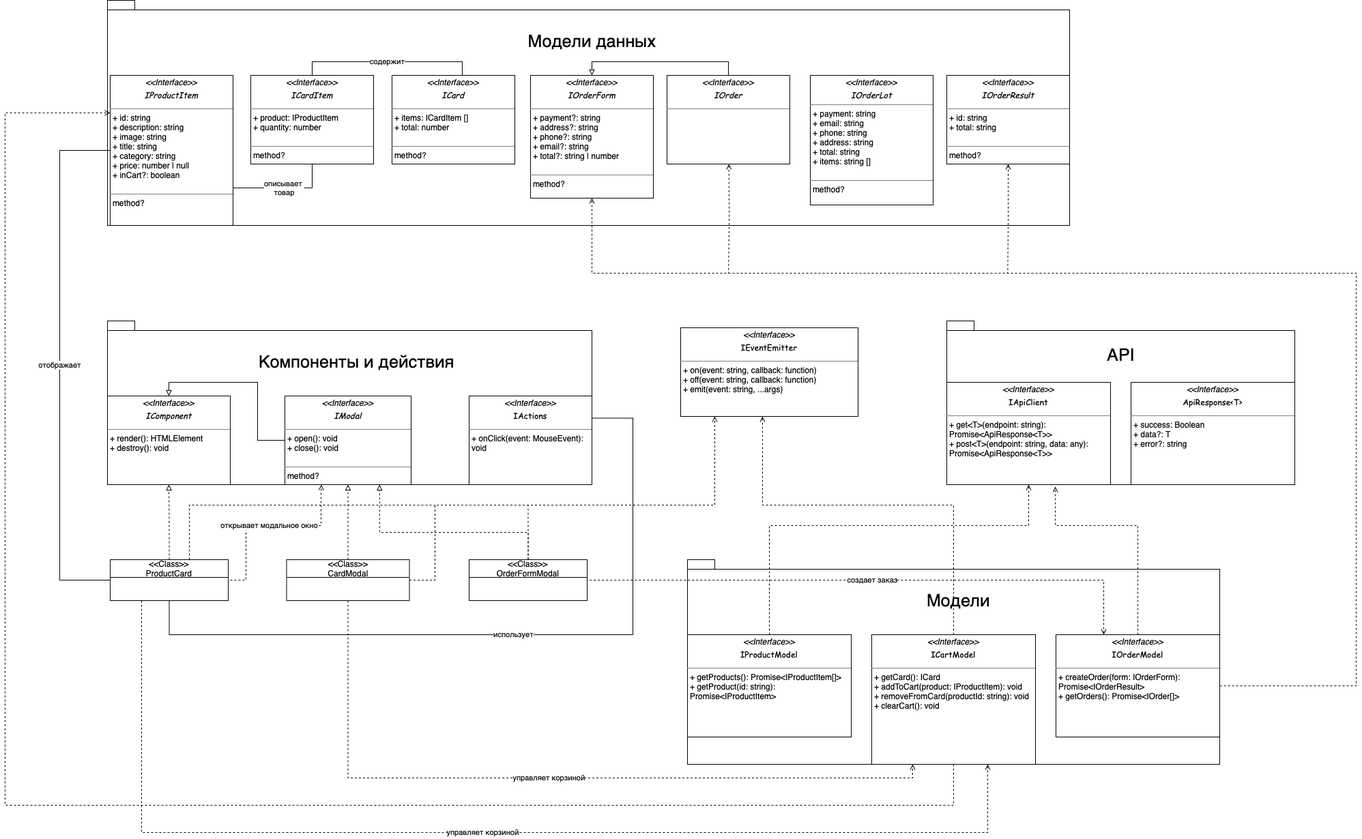
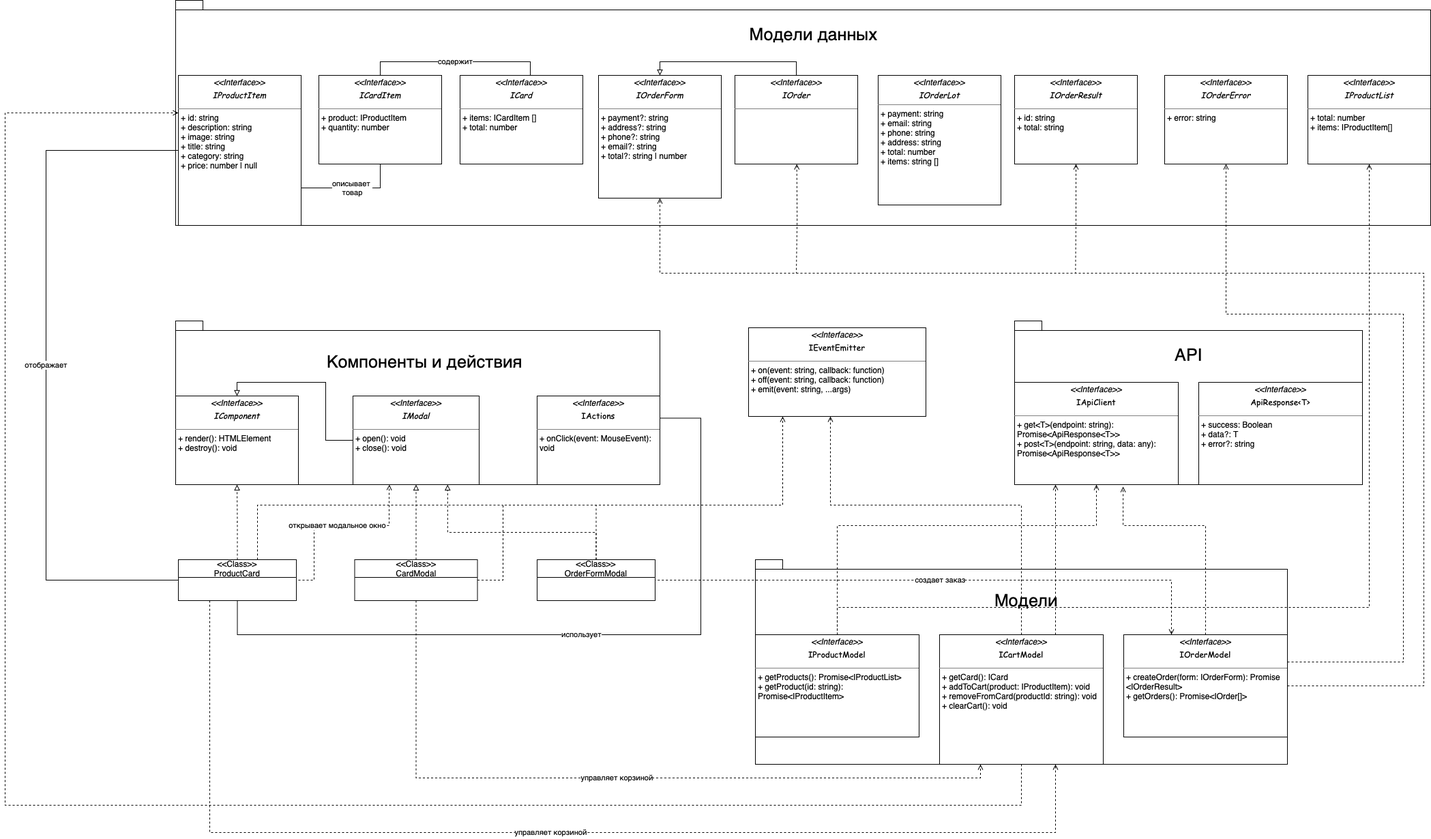
updated readme

diff --git a/src/types/index.ts b/src/types/index.ts
@@ -7,6 +7,11 @@ export interface IProductItem {
   price: number | null;
 }
 
+export interface IProductList {
+  total: number;
+  items: IProductItem[];
+}
+
 export interface IActions {
   onClick: (event: MouseEvent) => void;
 }
@@ -37,6 +42,10 @@ export interface IOrderResult {
   total: number;
 }
 
+export interface IOrderError {
+  error: string;
+}
+
 export interface ICartItem {
   product: IProductItem;
   quantity: number;
@@ -63,4 +72,34 @@ export interface IEventEmitter {
   on(event: string, callback: EventCallback): void;
   off(event: string, callback: EventCallback): void;
   emit(event: string, ...args: any[]): void;
+}
+
+export interface ApiResponse<T> {
+  success: boolean;
+  data?: T;
+  error?: string;
+}
+
+export interface IApiClient {
+  get<T>(endpoint: string): Promise<ApiResponse<T>>;
+  post<T>(endpoint: string, data: any): Promise<ApiResponse<T>>;
+  put<T>(endpoint: string, data: any): Promise<ApiResponse<T>>;
+  delete<T>(endpoint: string): Promise<ApiResponse<T>>;
+}
+
+export interface IProductModel {
+  getProducts(): Promise<IProductList>;
+  getProduct(id: string): Promise<IProductItem>;
+}
+
+export interface ICartModel {
+  getCart(): ICart;
+  addToCart(product: IProductItem): void;
+  removeFromCart(productId: string): void;
+  clearCart(): void;
+}
+
+export interface IOrderModel {
+  createOrder(form: IOrderLot): Promise<IOrderResult>;
+  getOrders(): Promise<IOrder[]>;
 }

diff --git a/README.md b/README.md
@@ -18,30 +18,202 @@
 - src/utils/constants.ts — файл с константами
 - src/utils/utils.ts — файл с утилитами
 
+## Об архитектуре
+
+Взаимодействия внутри приложения происходят через события. Модели инициализируют события, слушатели событий в основном коде выполняют передачу данных компонентам отображения, а также вычислениями между этой передачей, и еще они меняют значения в моделях.
+
 ## Архитектура проекта
 
-### Основные компоненты
-1. **Модели данных**
-   - `IProductItem` - модель товара с полями id, title, description, image, category, price
-   - `ICart` и `ICartItem` - модель корзины для хранения выбранных товаров
-   - `IOrder`, `IOrderForm`, `IOrderLot` - модели для работы с заказами
+Архитектура проекта основана на MVP-паттерне с использованием брокера событий для взаимодействия между частями приложения. Основные части архитектуры включают Модели данных, Представления (Компоненты) и Связующий слой (логика приложения, управляемая событиями).
 
-2. **Компоненты**
-   - `IComponent` - базовый компонент с методами render и destroy
-   - `IModal` - модальное окно с методами open и close
-   - `IActions` - обработка событий клика
+### Основные компоненты и их назначение
 
-3. **События**
-   - `IEventEmitter` - брокер событий для коммуникации между компонентами
-   - `EventCallback` - тип для обработчиков событий
+1.  **Модели данных**: Отвечают за хранение и управление состоянием данных приложения, а также бизнес-логику.
+2.  **Представления (Компоненты)**: Отвечают за отображение данных пользователю и обработку его действий.
+3.  **Брокер событий**: Обеспечивает слабую связанность между компонентами, позволяя им взаимодействовать путем подписки на события и их публикации.
+4.  **API Клиент**: Отвечает за взаимодействие с внешним API для получения и отправки данных.
 
-## UML Диаграмма проекта
+### Взаимодействие компонентов
 
-![UML Диаграмма проекта](web-larek-uml-diagram.png)
+Взаимодействие происходит преимущественно через брокер событий (`IEventEmitter`). Модели данных (`IProductModel`, `ICartModel`, `IOrderModel`) могут инициировать события при изменении своего состояния (например, 'cart:updated'). Компоненты (`ProductCard`, `CartModal`, `OrderFormModal`) могут подписываться на эти события, чтобы обновить свое отображение. Компоненты также могут вызывать методы моделей напрямую для выполнения действий (например, добавить товар в корзину). API Клиент (`IApiClient`) используется моделями для запросов к серверу.
 
-## Описание проекта
+Процессы в приложении (например, добавление товара в корзину, оформление заказа) реализуются путем вызова соответствующих методов моделей, которые в свою очередь используют API Клиент и инициируют события для обновления представлений.
 
-![Описание проекта](excalidraw.png)
+### Данные, используемые в приложении и их описание
+
+Проект работает со следующими основными типами данных, определенными в `src/types/index.ts`:
+
+*   `IProductItem`: Интерфейс, описывающий структуру данных одного товара, получаемых или используемых в приложении.
+    *   `id: string`: Уникальный идентификатор товара.
+    *   `description: string`: Подробное описание товара.
+    *   `image: string`: URL изображения товара.
+    *   `title: string`: Название товара.
+    *   `category: string`: Категория товара.
+    *   `price: number | null`: Цена товара. Может быть `null`, если товар недоступен для покупки.
+
+*   `IProductList`: Интерфейс, описывающий ответ API при запросе списка товаров.
+    *   `total: number`: Общее количество товаров.
+    *   `items: IProductItem[]`: Массив товаров.
+
+*   `ICartItem`: Интерфейс, описывающий отдельный элемент в корзине.
+    *   `product: IProductItem`: Сам товар.
+    *   `quantity: number`: Количество данного товара в корзине.
+
+*   `ICart`: Интерфейс, описывающий состояние корзины.
+    *   `items: ICartItem[]`: Массив элементов корзины.
+    *   `total: number`: Общая стоимость товаров в корзине.
+
+*   `IOrderForm`: Интерфейс, описывающий данные формы заказа на первом и втором шагах оформления.
+    *   `payment?: string`: Выбранный способ оплаты (опционально до выбора).
+    *   `address?: string`: Адрес доставки (опционально до ввода).
+    *   `phone?: string`: Телефон покупателя (опционально до ввода).
+    *   `email?: string`: Email покупателя (опционально до ввода).
+    *   `total?: string | number`: Общая стоимость заказа (опционально, может быть строкой или числом).
+
+*   `IOrder`: Интерфейс, описывающий структуру заказа после его создания (наследует от `IOrderForm`).
+    *   Наследует все свойства от `IOrderForm`.
+    *   `items: string[]`: Массив идентификаторов товаров в заказе.
+
+*   `IOrderLot`: Интерфейс, описывающий полные данные заказа для отправки на сервер.
+    *   `payment: string`: Выбранный способ оплаты.
+    *   `email: string`: Email покупателя.
+    *   `phone: string`: Телефон покупателя.
+    *   `address: string`: Адрес доставки.
+    *   `total: number`: Общая стоимость заказа.
+    *   `items: string[]`: Массив идентификаторов товаров в заказе.
+
+*   `IOrderResult`: Интерфейс, описывающий структуру ответа сервера после успешного создания заказа.
+    *   `id: string`: Идентификатор созданного заказа.
+    *   `total: number`: Подтвержденная сервером общая стоимость заказа.
+
+*   `IOrderError`: Интерфейс, описывающий структуру ответа сервера при ошибке создания заказа.
+    *   `error: string`: Сообщение об ошибке.
+
+### Описание основных интерфейсов и классов
+
+*   `<<interface>> IComponent`: Базовый интерфейс для всех визуальных компонентов приложения.
+    *   **Назначение:** Определяет базовый контракт для элементов пользовательского интерфейса, которые могут быть отображены и, возможно, удалены.
+    *   **Методы:**
+        *   `render(): HTMLElement`: Метод для создания или обновления DOM-элемента компонента. Возвращает корневой HTMLElement компонента.
+        *   `destroy(): void`: Метод для очистки ресурсов, связанных с компонентом (например, удаление обработчиков событий, удаление из DOM).
+
+*   `<<interface>> IModal extends IComponent`: Интерфейс для модальных окон, наследующий от `IComponent`.
+    *   **Назначение:** Определяет контракт для компонентов, которые функционируют как модальные окна (могут открываться и закрываться).
+    *   **Методы:**
+        *   `open(): void`: Метод для отображения модального окна на экране.
+        *   `close(): void`: Метод для скрытия или удаления модального окна с экрана.
+    *   Наследует методы `render()` и `destroy()` от `IComponent`.
+
+*   `<<interface>> IActions`: Интерфейс для определения действий, которые могут быть привязаны к элементам пользовательского интерфейса.
+    *   **Назначение:** Позволяет типизировать обработчики событий, чаще всего кликов, передаваемых компонентам.
+    *   **Методы:**
+        *   `onClick(event: MouseEvent): void`: Метод-обработчик события клика мышью.
+
+*   `<<interface>> IEventEmitter`: Интерфейс брокера событий.
+    *   **Назначение:** Обеспечивает механизм публикации-подписки для обмена сообщениями (событиями) между слабосвязанными частями приложения.
+    *   **Методы:**
+        *   `on(event: string, callback: EventCallback): void`: Подписывает обработчик `callback` на событие с именем `event`. `callback` будет вызван при возникновении события.
+        *   `off(event: string, callback: EventCallback): void`: Отписывает обработчик `callback` от события `event`.
+        *   `emit(event: string, ...args: any[]): void`: Публикует событие с именем `event`, передавая дополнительные аргументы `...args` всем подписанным обработчикам.
+
+*   `EventCallback`: Тип для функций-обработчиков событий.
+    *   **Назначение:** Определяет сигнатуру функции, которая может быть использована как обработчик события.
+    *   **Сигнатура:** `(...args: any[]) => void`: Функция, принимающая любое количество аргументов и не возвращающая значения.
+
+*   `<<interface>> ApiResponse<T>`: Интерфейс, описывающий стандартную структуру ответа от API.
+    *   **Назначение:** Типизирует ответы от сервера, позволяя единообразно обрабатывать успешные данные, ошибки и статус запроса.
+    *   **Свойства:**
+        *   `success: boolean`: Индикатор успешности выполнения запроса.
+        *   `data?: T`: Опциональное поле с данными ответа в случае успеха. Типизируется с помощью дженерика `T`.
+        *   `error?: string`: Опциональное поле с сообщением об ошибке в случае неудачи.
+
+*   `<<interface>> IApiClient`: Интерфейс клиента для взаимодействия с API сервера.
+    *   **Назначение:** Предоставляет стандартизированные методы для выполнения HTTP-запросов к внешнему API.
+    *   **Методы:**
+        *   `get<T>(endpoint: string): Promise<ApiResponse<T>>`: Выполняет GET-запрос к указанной конечной точке API. Возвращает Promise, который разрешается с типизированным ответом `ApiResponse<T>`.
+        *   `post<T>(endpoint: string, data: any): Promise<ApiResponse<T>>`: Выполняет POST-запрос к указанной конечной точке с телом запроса `data`. Возвращает Promise с типизированным ответом.
+        *   `put<T>(endpoint: string, data: any): Promise<ApiResponse<T>>`: Выполняет PUT-запрос.
+        *   `delete<T>(endpoint: string): Promise<ApiResponse<T>>`: Выполняет DELETE-запрос.
+
+*   `<<interface>> IProductModel`: Интерфейс модели данных для работы с товарами.
+    *   **Назначение:** Отвечает за получение списка товаров и информации о конкретном товаре.
+    *   **Методы:**
+        *   `getProducts(): Promise<IProductList>`: Асинхронно получает список всех товаров с информацией о пагинации. Возвращает Promise, разрешающийся объектом `IProductList`.
+        *   `getProduct(id: string): Promise<IProductItem>`: Асинхронно получает данные конкретного товара по его `id`. Возвращает Promise, разрешающийся объектом `IProductItem`.
+
+*   `<<interface>> ICartModel`: Интерфейс модели данных для работы с корзиной.
+    *   **Назначение:** Управляет состоянием корзины: добавлением, удалением товаров, расчетом общей стоимости.
+    *   **Методы:**
+        *   `getCart(): ICart`: Возвращает текущее состояние корзины в виде объекта `ICart`.
+        *   `addToCart(product: IProductItem): void`: Добавляет указанный `product` в корзину. Инициирует событие 'cart:updated'.
+        *   `removeFromCart(productId: string): void`: Удаляет товар с указанным `productId` из корзины. Инициирует событие 'cart:updated'.
+        *   `clearCart(): void`: Полностью очищает корзину. Инициирует событие 'cart:updated'.
+
+*   `<<interface>> IOrderModel`: Интерфейс модели данных для работы с заказами.
+    *   **Назначение:** Отвечает за создание нового заказа и, возможно, получение списка существующих заказов.
+    *   **Методы:**
+        *   `createOrder(form: IOrderLot): Promise<IOrderResult>`: Асинхронно создает новый заказ, используя данные из формы `form`. Отправляет данные на сервер через API. Возвращает Promise, разрешающийся результатом создания заказа `IOrderResult`.
+        *   `getOrders(): Promise<IOrder[]>`: Асинхронно получает список существующих заказов. Возвращает Promise, разрешающийся массивом `IOrder`.
+
+### Описание классов компонентов (Представления)
+
+*   `ProductCard`: Класс, представляющий визуальный компонент карточки товара.
+    *   **Назначение:** Отображает информацию о товаре (название, цена, категория, изображение) и предоставляет функционал для взаимодействия (клик для просмотра деталей, кнопка добавления в корзину).
+    *   **Конструктор:**
+        *   Принимает `HTMLElement` - корневой DOM-элемент для компонента.
+        *   Принимает объект с данными товара типа `IProductItem`.
+        *   Принимает объект с действиями типа `IActions` для обработки кликов.
+    *   **Свойства:** Может иметь свойства для ссылок на DOM-элементы внутри карточки (`_titleElement`, `_priceElement` и т.п.) и ссылку на объект данных товара (`_productData`).
+    *   **Методы/Сеттеры:** Могут включать методы для обновления отображения карточки (`set productData(data: IProductItem)`), привязки обработчиков событий.
+    *   Реализует интерфейс `IComponent` (методы `render`, `destroy`).
+
+*   `CartModal`: Класс, представляющий визуальный компонент модального окна корзины.
+    *   **Назначение:** Отображает список товаров в корзине, их количество и общую стоимость. Предоставляет функционал для изменения количества, удаления товаров и перехода к оформлению заказа.
+    *   **Конструктор:**
+        *   Принимает `HTMLElement` - корневой DOM-элемент модального окна.
+        *   Может принимать ссылку на объект модели корзины (`ICartModel`) или брокер событий (`IEventEmitter`) для получения данных и взаимодействия.
+    *   **Свойства:** Может иметь свойства для ссылок на DOM-элементы списка товаров, общей стоимости, кнопки оформления.
+    *   **Методы/Сеттеры:** Методы для обновления списка товаров (`updateItems(items: ICartItem[])`), обновления общей стоимости (`updateTotal(total: number)`). Реализует интерфейс `IModal` (методы `open`, `close`).
+
+*   `OrderFormModal`: Класс, представляющий визуальный компонент модального окна с формами оформления заказа.
+    *   **Назначение:** Отображает шаги оформления заказа (выбор оплаты/адреса, ввод контактов), собирает данные от пользователя, выполняет валидацию и инициирует процесс создания заказа.
+    *   **Конструктор:**
+        *   Принимает `HTMLElement` - корневой DOM-элемент модального окна.
+        *   Может принимать ссылку на объект модели заказа (`IOrderModel`) или брокер событий (`IEventEmitter`) для взаимодействия.
+    *   **Свойства:** Может иметь свойства для ссылок на DOM-элементы полей ввода, кнопок, сообщений об ошибках.
+    *   **Методы/Сеттеры:** Методы для отображения текущего шага (`showStep(step: number)`), сбора данных формы (`get formData(): IOrderForm`), валидации полей (`validate(): boolean`), отображения ошибок (`showErrors(errors: string[])`). Реализует интерфейс `IModal` (методы `open`, `close`).
+
+## UML Диаграмма Архитектуры
+
+![UML Диаграмма Архитектуры](web-larek-uml-diagram.png)
+
+## Исходная схема-набросок
+
+![Исходная схема-набросок](excalidraw.png)
+
+## Основные Типы и Интерфейсы Проекта
+
+Ниже перечислены основные типы и интерфейсы, определенные в `src/types/index.ts`:
+
+*   `IProductItem`
+*   `IProductList`
+*   `IActions`
+*   `IOrderForm`
+*   `IOrder`
+*   `IOrderLot`
+*   `IOrderResult`
+*   `IOrderError`
+*   `ICartItem`
+*   `ICart`
+*   `IComponent`
+*   `IModal`
+*   `IEventEmitter`
+*   `EventCallback`
+*   `IApiClient`
+*   `ApiResponse<T>`
+*   `IProductModel`
+*   `ICartModel`
+*   `IOrderModel`
 
 ## Установка и запуск
 Для установки и запуска проекта необходимо выполнить команды
